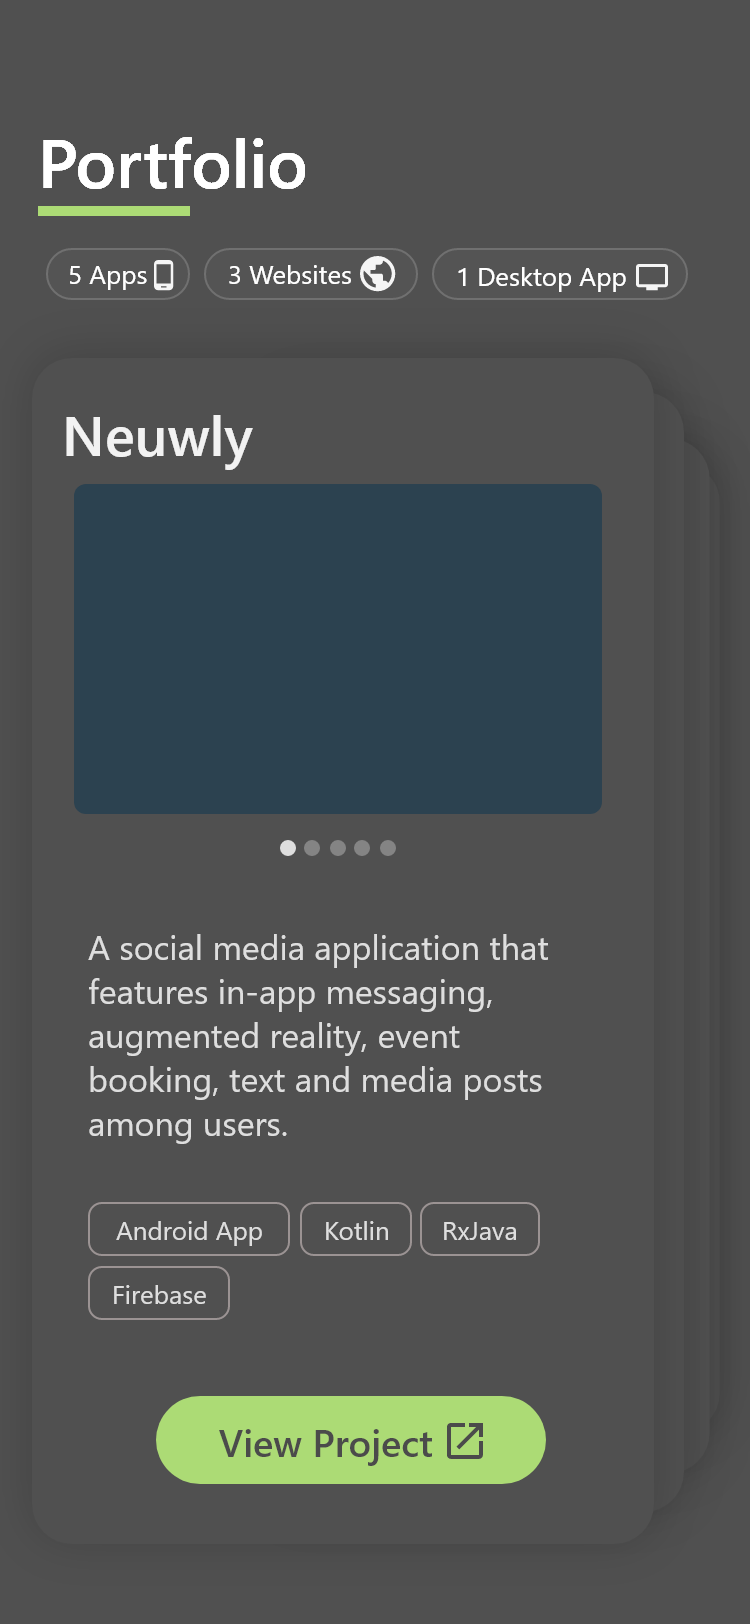
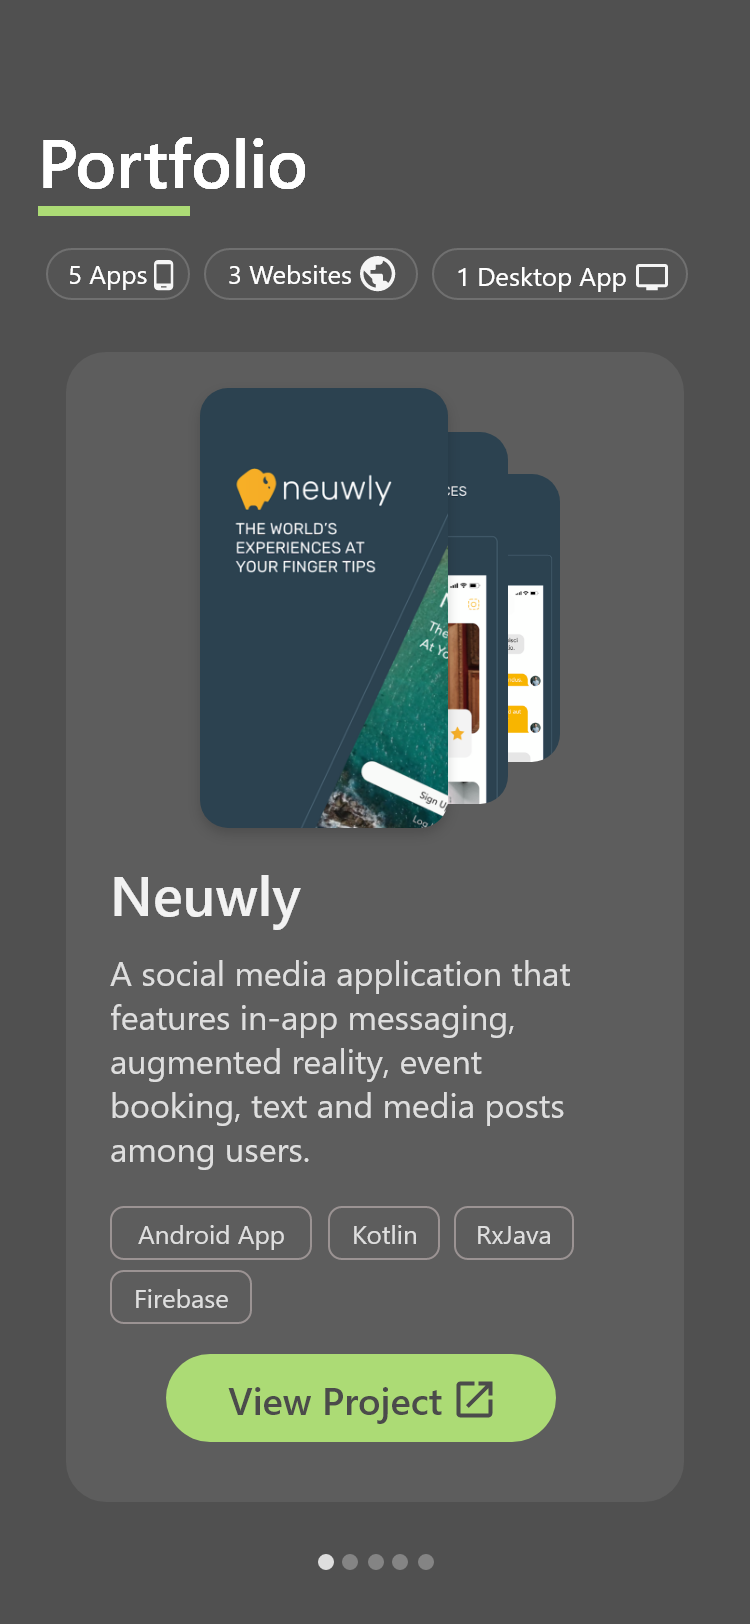
add new designs

Changed region(s): [[0.092, 0.2155, 0.828, 0.9236], [0.4293, 0.9544, 0.5827, 0.9852]]

diff --git a/README.md b/README.md
@@ -16,4 +16,5 @@
 
 <h2>Mobile Pages</h2>
 
-<img src="public/Home_Mobile.png" alt="Home page mobile" width="300"/>         <img src="public/Portfolio_Mobile.png" alt="Home page mobile" width="300"/>        
+<img src="public/HomeNavigation_Mobile.png" alt="Home nav drawer mobile" width="300"/> <img src="public/Home_Mobile.png" alt="Home page mobile" width="300"/><img src="public/Portfolio_Mobile.png" alt="Home page mobile" width="300"/>
+<img src="public/About_Mobile.png" alt="About page mobile" width="300"/> <img src="public/Contact_Mobile.png" alt="Contact page mobile" width="300"/> 
